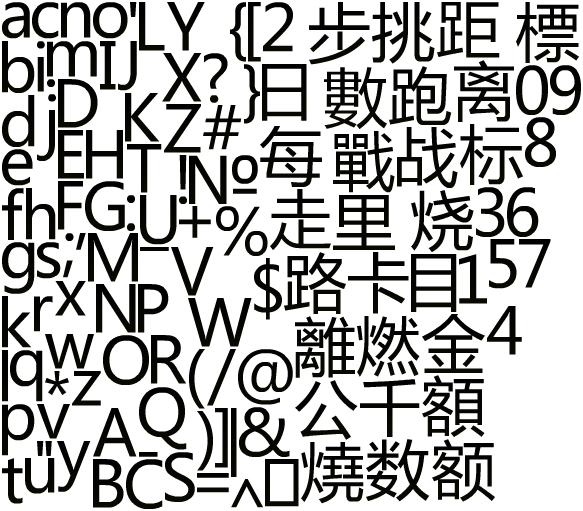
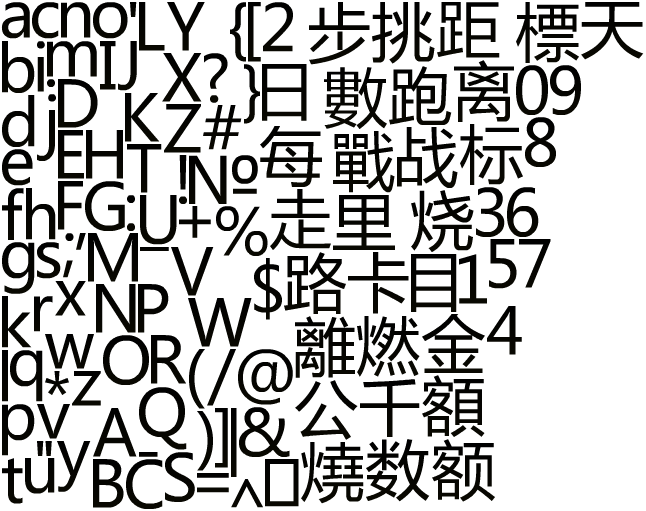
adjust share image

diff --git a/server/imageService.js b/server/imageService.js
@@ -27,11 +27,15 @@ const initTpl = async () => {
     sourceTpl[i.toString()] = await Jimp.read(resourceDir + `${i}.jpg`)
   }
   logoSource = await Jimp.read(path.join(__dirname, '../dist/images/logo.png'))
-  FONT_BLACK_64 = await Jimp.loadFont(Jimp.FONT_SANS_64_BLACK)
+  FONT_BLACK_64 = await Jimp.loadFont(
+    resourceDir + 'fonts/BLACK_64_EN/font.fnt'
+  )
   FONT_BLACK_64_TW = await Jimp.loadFont(
     resourceDir + 'fonts/BLACK_64/font.fnt'
   )
-  FONT_BLACK_32 = await Jimp.loadFont(Jimp.FONT_SANS_32_BLACK)
+  FONT_BLACK_32 = await Jimp.loadFont(
+    resourceDir + 'fonts/BLACK_32_EN/font.fnt'
+  )
   FONT_BLACK_32_TW = await Jimp.loadFont(
     resourceDir + 'fonts/BLACK_32/font.fnt'
   )
@@ -57,16 +61,16 @@ function printText(tpl, font, text, textConfig, Align) {
 }
 
 let addressFontConfig = {
-  maxWidth: 520,
+  maxWidth: 540,
   maxHeight: 30,
-  placementX: 0,
-  placementY: 480
+  placementX: 80,
+  placementY: 482
 }
 let textConfig = {
   maxWidth: 520,
   maxHeight: 30,
   placementX: 10,
-  placementY: 40
+  placementY: 20
 }
 
 exports.generateImage = async ({ challengeData, isPreview, cbk, errorCbk }) => {
@@ -103,44 +107,46 @@ exports.generateImage = async ({ challengeData, isPreview, cbk, errorCbk }) => {
   const cloneSourceTpl = sourceTpl[String(groupId)].clone()
 
   const logo = await logoSource.clone().resize(60, 60)
-  cloneSourceTpl.composite(logo, 460, 420, [Jimp.BLEND_DESTINATION_OVER])
+  cloneSourceTpl.composite(logo, 10, 470, [Jimp.BLEND_DESTINATION_OVER])
 
   printText(
     cloneSourceTpl,
     FONT_WHITE_16,
     challenger,
     addressFontConfig,
-    Jimp.HORIZONTAL_ALIGN_RIGHT
+    Jimp.HORIZONTAL_ALIGN_LEFT
   )
 
   printText(
     cloneSourceTpl,
-    isEn ? FONT_BLACK_64 : FONT_BLACK_64_TW,
-    challengeData.groupName,
+    isEn ? FONT_BLACK_32 : FONT_BLACK_32_TW,
+    translate[`group.title.${challengeData.groupId}`],
     textConfig
   )
   printText(
     cloneSourceTpl,
     isEn ? FONT_BLACK_32 : FONT_BLACK_32_TW,
-    translate['target'] +
-      ' ' +
-      translate[`group.unit.${challengeData.groupId}`].replace(
-        '{goal}',
-        challengeData.goal
-      ),
+    translate[`group.unit.${challengeData.groupId}`].replace(
+      '{goal}',
+      challengeData.goal
+    ) +
+      (isEn ? ' / ' : '/') +
+      challengeData.totalDays +
+      (isEn ? ' ' : '') +
+      translate[`days`],
     {
       ...textConfig,
-      placementY: textConfig.placementY + 55
+      placementY: textConfig.placementY + 40
     }
   )
 
   printText(
     cloneSourceTpl,
-    isEn ? FONT_BLACK_32 : FONT_BLACK_32_TW,
-    translate['amount'] + ' ' + challengeData.amount,
+    isEn ? FONT_BLACK_64 : FONT_BLACK_64_TW,
+    challengeData.amount,
     {
       ...textConfig,
-      placementY: textConfig.placementY + 90
+      placementY: textConfig.placementY + 95
     }
   )
 

diff --git a/server/server.js b/server/server.js
@@ -120,6 +120,7 @@ app.get('/api/share/:groupId/:address/:round*?', async (req, res) => {
     groupId,
     groupName: group.name,
     round: challengeRes.round,
+    totalDays: challengeRes.totalDays,
     challenger: address,
     goal: challengeRes.goal,
     amount: challengeRes.amount + ' ' + process.env.REACT_APP_COIN
